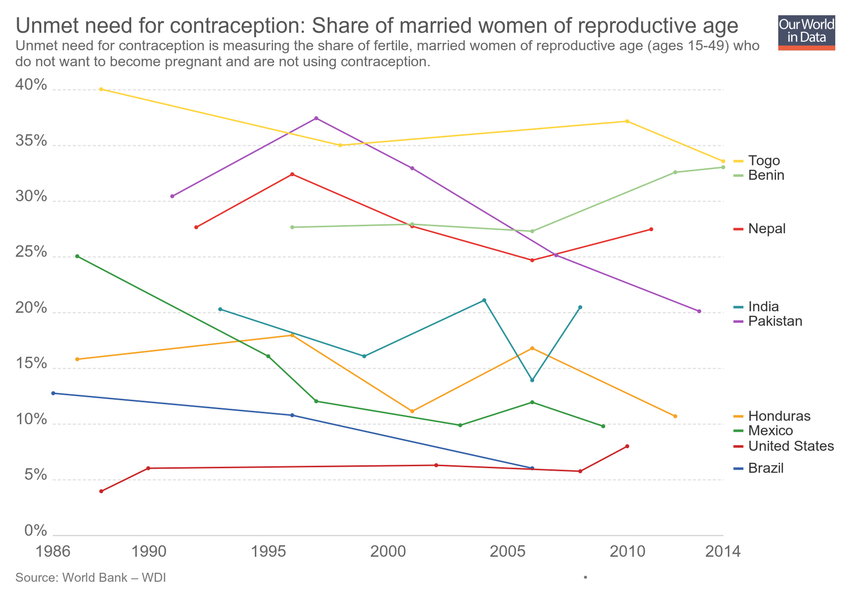
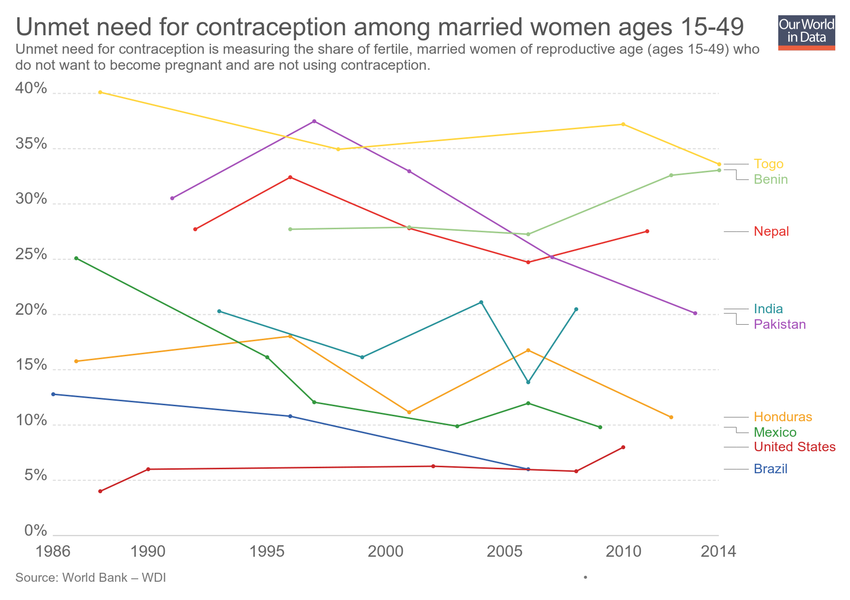
Updating chart unmet-need-for-contraception-share-of-married-women-of-reproductive-age

diff --git a/grapher/unmet-need-for-contraception-share-of-married-women-of-reproductive-age.html b/grapher/unmet-need-for-contraception-share-of-married-women-of-reproductive-age.html
@@ -1,4 +1,4 @@
-<!doctype html><html><head><meta name="viewport" content="width=device-width, initial-scale=1" /><title>Unmet need for contraception: Share of married women of reproductive age - Our World in Data</title><meta name="description" content="Unmet need for contraception is measuring the share of fertile, married women of reproductive age (ages 15-49) who do not want to become pregnant and are not using contraception." /><link rel="canonical" href="https://ourworldindata.org/grapher/unmet-need-for-contraception-share-of-married-women-of-reproductive-age" /><meta property="fb:app_id" content="1149943818390250" /><meta property="og:url" content="https://ourworldindata.org/grapher/unmet-need-for-contraception-share-of-married-women-of-reproductive-age" /><meta property="og:title" content="Unmet need for contraception: Share of married women of reproductive age" /><meta property="og:description" content="Unmet need for contraception is measuring the share of fertile, married women of reproductive age (ages 15-49) who do not want to become pregnant and are not using contraception." /><meta property="og:image" content="https://ourworldindata.org/grapher/exports/unmet-need-for-contraception-share-of-married-women-of-reproductive-age.png?v=1" /><meta property="og:image:width" content="850" /><meta property="og:image:height" content="600" /><meta property="og:site_name" content="Our World in Data" /><meta name="twitter:card" content="summary_large_image" /><meta name="twitter:site" content="@OurWorldInData" /><meta name="twitter:creator" content="@OurWorldInData" /><meta name="twitter:title" content="Unmet need for contraception: Share of married women of reproductive age" /><meta name="twitter:description" content="Unmet need for contraception is measuring the share of fertile, married women of reproductive age (ages 15-49) who do not want to become pregnant and are not using contraception." /><meta name="twitter:image" content="https://ourworldindata.org/grapher/exports/unmet-need-for-contraception-share-of-married-women-of-reproductive-age.png?v=1" /><style>
+<!doctype html><html><head><meta name="viewport" content="width=device-width, initial-scale=1" /><title>Unmet need for contraception among married women ages 15-49 - Our World in Data</title><meta name="description" content="Unmet need for contraception is measuring the share of fertile, married women of reproductive age (ages 15-49) who do not want to become pregnant and are not using contraception." /><link rel="canonical" href="https://ourworldindata.org/grapher/unmet-need-for-contraception-share-of-married-women-of-reproductive-age" /><meta property="fb:app_id" content="1149943818390250" /><meta property="og:url" content="https://ourworldindata.org/grapher/unmet-need-for-contraception-share-of-married-women-of-reproductive-age" /><meta property="og:title" content="Unmet need for contraception among married women ages 15-49" /><meta property="og:description" content="Unmet need for contraception is measuring the share of fertile, married women of reproductive age (ages 15-49) who do not want to become pregnant and are not using contraception." /><meta property="og:image" content="https://ourworldindata.org/grapher/exports/unmet-need-for-contraception-share-of-married-women-of-reproductive-age.png?v=3" /><meta property="og:image:width" content="850" /><meta property="og:image:height" content="600" /><meta property="og:site_name" content="Our World in Data" /><meta name="twitter:card" content="summary_large_image" /><meta name="twitter:site" content="@OurWorldInData" /><meta name="twitter:creator" content="@OurWorldInData" /><meta name="twitter:title" content="Unmet need for contraception among married women ages 15-49" /><meta name="twitter:description" content="Unmet need for contraception is measuring the share of fertile, married women of reproductive age (ages 15-49) who do not want to become pregnant and are not using contraception." /><meta name="twitter:image" content="https://ourworldindata.org/grapher/exports/unmet-need-for-contraception-share-of-married-women-of-reproductive-age.png?v=3" /><style>
         html, body {
             height: 100%;
             margin: 0;
@@ -20,8 +20,8 @@
         }
     </style><noscript><style>
                     figure { display: none !important; }
-                </style></noscript><link rel="stylesheet" href="https://ourworldindata.org/grapher/assets/commons.bundle.aac21d725a915c387ab8.css" /><link rel="preload" href="/grapher/data/variables/3466.json?v=1" as="fetch" crossorigin /></head><body class="singleChart"><figure data-grapher-src="/grapher/unmet-need-for-contraception-share-of-married-women-of-reproductive-age"></figure><noscript id="fallback"><img src="/grapher/exports/unmet-need-for-contraception-share-of-married-women-of-reproductive-age.svg" /><p>Interactive visualization requires JavaScript</p></noscript><script src="https://cdn.polyfill.io/v2/polyfill.min.js?features=es6,fetch"></script><script src="https://ourworldindata.org/grapher/assets/commons.bundle.aac21d725a915c387ab8.js"></script><script src="https://ourworldindata.org/grapher/assets/charts.bundle.aac21d725a915c387ab8.js"></script><script>
-        var jsonConfig = {"id":1371,"map":{"projection":"World","targetYear":2013,"variableId":3466,"timeTolerance":5,"legendStepSize":20,"baseColorScheme":"Reds","isManualBuckets":true,"colorSchemeLabels":[null,null,null,null,null,null,null,null,null,null],"colorSchemeValues":[5,10,20,30,40,55],"defaultProjection":"World","colorSchemeMinValue":0,"customNumericColors":[],"customCategoryColors":{},"customCategoryLabels":{},"customHiddenCategories":{}},"tab":"chart","slug":"unmet-need-for-contraception-share-of-married-women-of-reproductive-age","type":"LineChart","title":"Unmet need for contraception: Share of married women of reproductive age","xAxis":{"scaleType":"linear"},"yAxis":{"min":0,"scaleType":"linear"},"version":1,"subtitle":"Unmet need for contraception is measuring the share of fertile, married women of reproductive age (ages 15-49) who do not want to become pregnant and are not using contraception.","hasMapTab":true,"originUrl":"https://ourworldindata.org/fertility-rate","stackMode":"absolute","dimensions":[{"id":8685,"order":0,"chartId":1371,"display":{},"property":"y","targetYear":null,"variableId":3466}],"isAutoSlug":true,"hasChartTab":true,"isPublished":true,"selectedData":[{"index":0,"entityId":139},{"index":0,"entityId":107},{"index":0,"entityId":37},{"index":0,"entityId":101},{"index":0,"entityId":74},{"index":0,"entityId":32},{"index":0,"entityId":113},{"index":0,"entityId":13},{"index":0,"entityId":137}],"internalNotes":"","addCountryMode":"add-country"};
+                </style></noscript><link rel="stylesheet" href="https://ourworldindata.org/grapher/assets/commons.bundle.aac21d725a915c387ab8.css" /><link rel="preload" href="/grapher/data/variables/3466.json?v=3" as="fetch" crossorigin /></head><body class="singleChart"><figure data-grapher-src="/grapher/unmet-need-for-contraception-share-of-married-women-of-reproductive-age"></figure><noscript id="fallback"><img src="/grapher/exports/unmet-need-for-contraception-share-of-married-women-of-reproductive-age.svg" /><p>Interactive visualization requires JavaScript</p></noscript><script src="https://cdn.polyfill.io/v2/polyfill.min.js?features=es6,fetch"></script><script src="https://ourworldindata.org/grapher/assets/commons.bundle.aac21d725a915c387ab8.js"></script><script src="https://ourworldindata.org/grapher/assets/charts.bundle.aac21d725a915c387ab8.js"></script><script>
+        var jsonConfig = {"id":1371,"map":{"projection":"World","targetYear":2013,"variableId":3466,"timeTolerance":5,"baseColorScheme":"Reds","isManualBuckets":true,"colorSchemeLabels":[null,null,null,null,null,null,null,null,null,null],"colorSchemeValues":[5,10,20,30,40,55],"colorSchemeMinValue":0,"customNumericColors":[],"customCategoryColors":{},"customCategoryLabels":{},"customHiddenCategories":{}},"tab":"chart","slug":"unmet-need-for-contraception-share-of-married-women-of-reproductive-age","type":"LineChart","title":"Unmet need for contraception among married women ages 15-49","xAxis":{"scaleType":"linear"},"yAxis":{"min":0,"scaleType":"linear"},"version":3,"subtitle":"Unmet need for contraception is measuring the share of fertile, married women of reproductive age (ages 15-49) who do not want to become pregnant and are not using contraception.","hasMapTab":true,"originUrl":"https://ourworldindata.org/fertility-rate","stackMode":"absolute","dimensions":[{"display":{},"property":"y","variableId":3466}],"hasChartTab":true,"isPublished":true,"selectedData":[{"index":0,"entityId":139},{"index":0,"entityId":107},{"index":0,"entityId":37},{"index":0,"entityId":101},{"index":0,"entityId":74},{"index":0,"entityId":32},{"index":0,"entityId":113},{"index":0,"entityId":13},{"index":0,"entityId":137}],"internalNotes":"","addCountryMode":"add-country"};
         var figure = document.getElementsByTagName("figure")[0];
         try {
             window.App = {};
